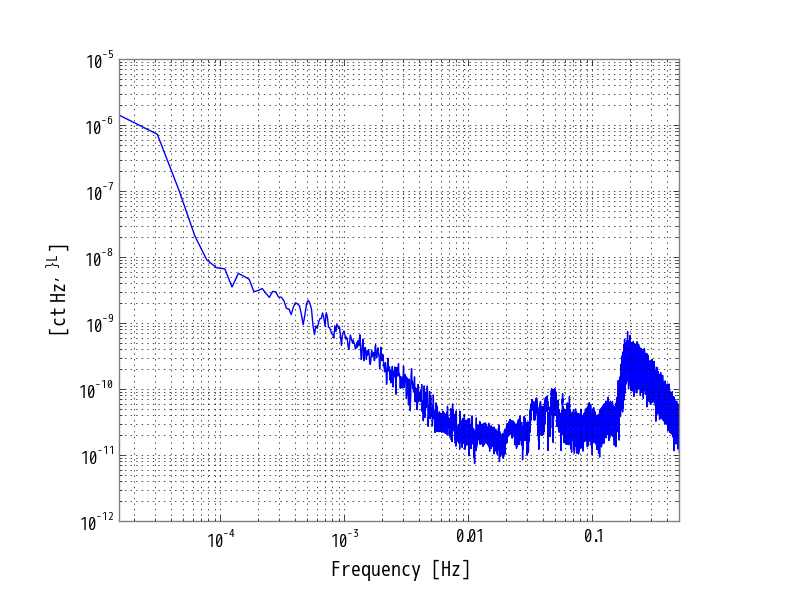
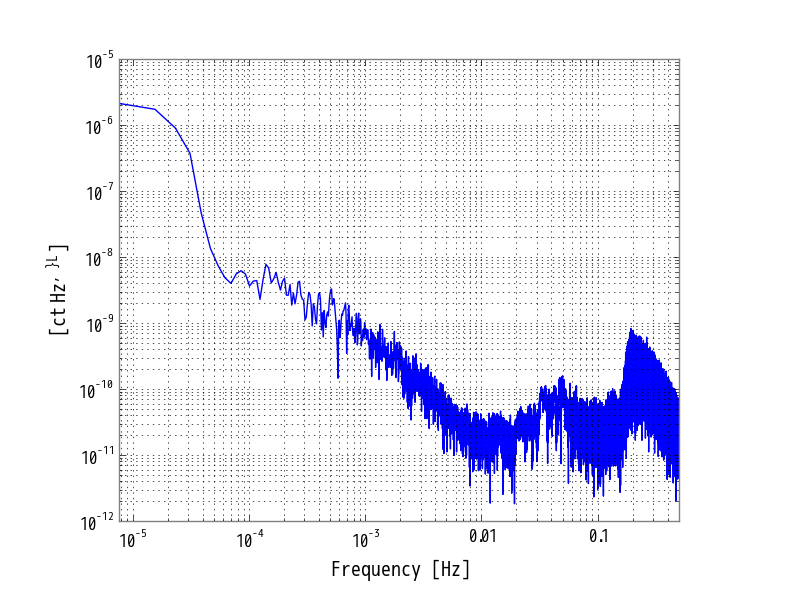
Update

diff --git a/ugm/strainmeter/main.py b/ugm/strainmeter/main.py
@@ -43,7 +43,7 @@ gif = data['K1:GIF-X_STRAIN_OUT_DQ.mean']
 plot = gif.plot()
 plot.savefig('hoge.png')
 plot.close()
-asd = gif.asd(fftlength=2**16,overlap=2**15)
+asd = gif.asd(fftlength=2**17,overlap=2**16)
 #asd = gif.asd(fftlength=2**10,overlap=2**9)
 plot = asd.plot()
 plot.savefig('huge.png')
